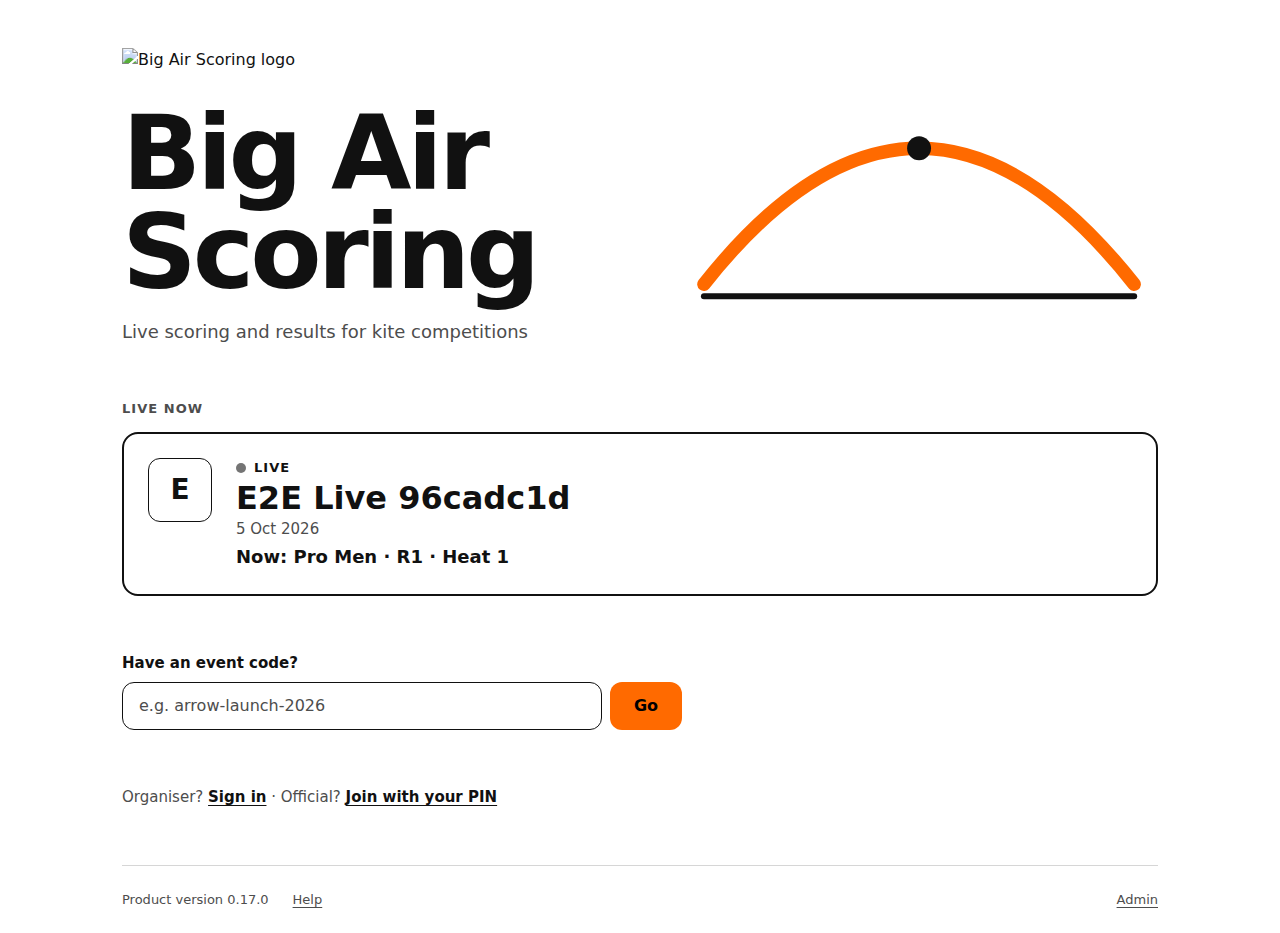
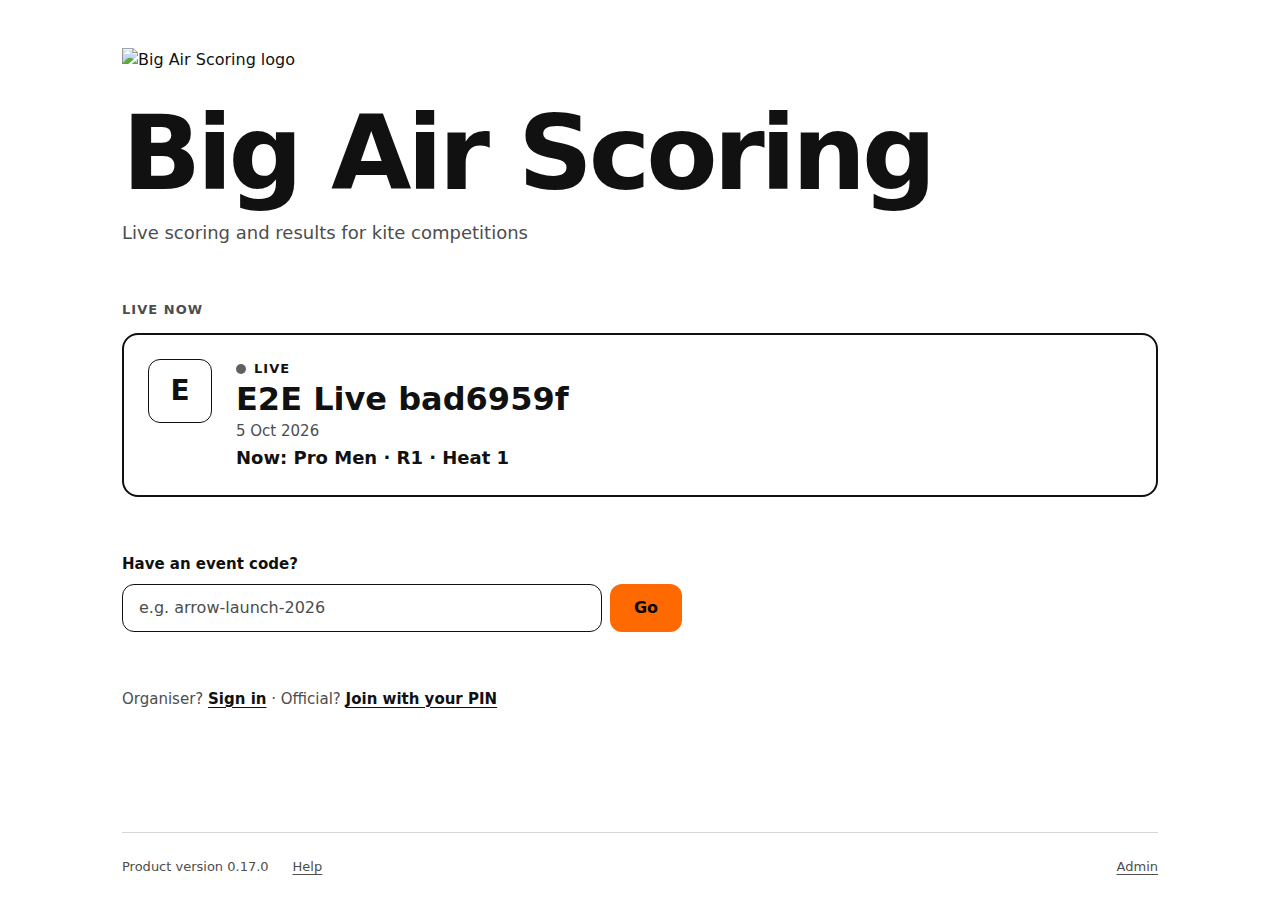
fix(home): remove the jump arc (owner's call); tests, manual and pictures follow
Claude-Session: https://claude.ai/code/session_01V3qx68Fo15qVSkwPdUGLnD

diff --git a/src/app/home.css b/src/app/home.css
@@ -1,5 +1,4 @@
-/* The front door (Polish 4). Its own small set of tokens, scoped to .home: near-black #111111, one accent (electric orange #FF6A00) used for the jump arc and the primary
-   action only, 1 px frames, 16 px cards, no shadows, no gradients. Dark and light follow the device. Text pairs are at least 7:1 (the beach standard):
+/* The front door (Polish 4). Its own small set of tokens, scoped to .home: near-black #111111, one accent (electric orange #FF6A00) used for the primary action only, 1 px frames, 16 px cards, no shadows, no gradients. Dark and light follow the device. Text pairs are at least 7:1 (the beach standard):
    ink on bg 17:1 / 17:1, muted on bg 8.4:1 / 10:1, black on the accent 7.4:1. The only movement on the page is the live dot (see .home-dot). */
 .home {
   --h-bg: #ffffff;
@@ -46,17 +45,11 @@
   }
 }
 
-/* hero: the wordmark large, the tagline in one line, the jump arc beside or under it */
+/* hero: the wordmark large, the tagline in one line */
 .home-hero {
   display: grid;
   gap: 16px;
   align-items: center;
-}
-@media (min-width: 880px) {
-  .home-hero {
-    grid-template-columns: minmax(0, 1.1fr) minmax(0, 1fr);
-    gap: 32px;
-  }
 }
 .home-logo {
   height: 48px;
@@ -77,16 +70,6 @@
   font-size: clamp(15px, 4vw, 18px);
   font-weight: 500;
   color: var(--h-muted);
-}
-.home-arc {
-  width: 100%;
-  height: auto;
-  max-height: 260px;
-  display: block;
-  color: var(--h-ink);
-}
-.home-arc .arc {
-  stroke: var(--h-accent);
 }
 
 /* section labels: 13 px uppercase */

diff --git a/src/app/page.tsx b/src/app/page.tsx
@@ -1,7 +1,6 @@
 import Link from "next/link";
 import { Suspense } from "react";
 import { HomeEventCode } from "@/components/home/home-event-code";
-import { JumpArc } from "@/components/home/arc";
 import { EventsView } from "@/components/home/events-view";
 import type { LandingEvent } from "@/components/landing-event-card";
 import "./home.css";
@@ -58,7 +57,7 @@ async function Events() {
   return <EventsView groups={groups} nowLines={nows} failed={Boolean(error)} />;
 }
 
-/** For riders and spectators. The hero (wordmark, tagline, the jump arc) does not wait for the events: the list streams in under it. */
+/** For riders and spectators. The hero (wordmark, tagline) does not wait for the events: the list streams in under it. */
 export default async function Home() {
   const settings = await getPlatformSettings();
   const hasLegal = Boolean(settings.legalTexts.terms || settings.legalTexts.privacy);
@@ -74,7 +73,6 @@ export default async function Home() {
             <h1 className="home-wordmark">{settings.productName}</h1>
             <p className="home-tagline">{settings.tagline}</p>
           </div>
-          <JumpArc />
         </header>
 
         <Suspense fallback={<div className="home-skeleton" aria-hidden />}>

diff --git a/e2e/home-landing.spec.ts b/e2e/home-landing.spec.ts
@@ -71,7 +71,6 @@ for (const profile of PROFILES) {
       test.setTimeout(120_000);
       await page.goto("/");
       await expect(page.getByRole("heading", { level: 1 })).toBeVisible();
-      await expect(page.locator("svg.home-arc")).toBeVisible();
       // the live card is first, and the larger one
       const first = page.getByTestId("landing-event").first();
       await expect(first).toHaveAttribute("data-status", "live");
@@ -136,7 +135,7 @@ for (const profile of PROFILES) {
           const ratio = await contrastOf(page, sel);
           expect(ratio, `${sel} on ${scheme}`).toBeGreaterThanOrEqual(7);
         }
-        // the accent appears in two places only: the arc and the primary action
+        // the accent appears in one place only: the primary action
         const accent = await page.evaluate(() => {
           const orange = "rgb(255, 106, 0)";
           const hits: string[] = [];
@@ -146,7 +145,7 @@ for (const profile of PROFILES) {
           }
           return [...new Set(hits)].sort();
         });
-        expect(accent).toEqual(["arc", "home-go"]);
+        expect(accent).toEqual(["home-go"]);
       });
     }
   });

diff --git a/docs/RELEASES.md b/docs/RELEASES.md
@@ -21,7 +21,7 @@ PR: #39
 - **Hiding built-in presets.** A hidden built-in is gone from your organisation's Load… menus only; **Show hidden (‹n›)** at the bottom of the menu brings it back. The owner's DEFAULT built-in cannot be hidden.
 - **Built-in presets without JSON (owner).** Admin → Master presets lists scoring models and formats with **Add a preset**, **Edit** (the organisers' own Simple / More settings form), **Rename**, **Retire** / **Restore**, **Set as DEFAULT** and **Delete** (refused while any division uses it). **Save as built-in** appears on a division's settings while you are opened as an organisation. JSON import and export stay under Advanced.
 - **The Load… menu stays on screen.** Every menu of that kind on the organiser and admin screens opens upwards when there is no room below and never runs off the edge.
-- **A new home page.** The product name large, a jump arc, the live event first as a larger card with a gently pulsing dot, then Coming up and Results, the event code field and the quiet links; light or dark as the phone says. No sign-up, no new addresses, nothing else on the site changed.
+- **A new home page.** The product name large, the live event first as a larger card with a gently pulsing dot, then Coming up and Results, the event code field and the quiet links; light or dark as the phone says. No sign-up, no new addresses, nothing else on the site changed.
 - Under the hood: two new tables (which built-ins an organisation hid, which built-in is the DEFAULT), a "retired" mark on presets and a few database functions; nothing existing was changed.
 
 ### What to test
@@ -31,7 +31,7 @@ PR: #39
 - [ ] In **Load…** → **⋯** on a built-in preset → **Hide**: it is gone from the menu and **Show hidden (1)** appears; press it, then **Show** on the entry: it is back. The preset marked DEFAULT has no Hide button.
 - [ ] Scroll the Divisions page until the **Load…** button is near the bottom of the screen and open it: the whole menu is on screen (it opens upwards).
 - [ ] As platform owner, Admin → **Master presets** → **Add a preset**: **Load…** a built-in, type a name, **Save**. Then **Edit** it, **Rename** it, **Retire** it (it vanishes from an organiser's Load… menu), **Restore** it, and **Delete** it. A division that loaded it earlier is unchanged.
-- [ ] Open the home page on a phone and on a laptop, light and dark: the arc, one orange accent, the live or next event as a clear card, the **Have an event code?** field and the quiet links; dark mode follows the phone.
+- [ ] Open the home page on a phone and on a laptop, light and dark: one orange accent (the Go button), the live or next event as a clear card, the **Have an event code?** field and the quiet links; dark mode follows the phone.
 
 ### Known issues
 - “Update preset from this division” is only in the Load… menu (it needs a division); the Presets card offers Rename, Delete, Hide and Show.

diff --git a/docs/manual/changelog.md b/docs/manual/changelog.md
@@ -12,7 +12,7 @@ Release entry: [0.17.0](/admin/releases#release-0-17-0) (platform owner only)
 - **Presets you can manage.** In the **Load…** menu and on a new **Presets** card of Organisation settings: **Rename**, **Delete** (refused while a live division uses it, naming the division), **Update preset from this division** (one click, reason optional), and **Hide** / **Show hidden** for built-in presets (the DEFAULT cannot be hidden). A division that loaded a preset is never changed by what you do to the preset afterwards.
 - **Master presets (owner):** scoring and format built-ins are a list with **Add**, **Edit** (the organisers' own form, no JSON), **Rename**, **Retire** / **Restore**, **Set as DEFAULT**, **Delete** (refused while a division uses it) and **Save as built-in** from a division's settings. JSON import/export is under Advanced.
 - **The Load… menu (and every menu of its kind) opens inside the screen**, upwards when there is no room below.
-- **A new home page:** the wordmark large, a jump arc, live event first and larger, Coming up, Results, the event code field, light and dark with the phone. Nothing else on the site changed.
+- **A new home page:** the wordmark large, live event first and larger, Coming up, Results, the event code field, light and dark with the phone. Nothing else on the site changed.
 
 **Manual pages updated:** [Divisions](screens/organiser-divisions.md#div-presets), [Organiser access](screens/organiser-access.md#oa-presets), [Admin: master presets](screens/admin-presets.md#ap-manage), [Public: the home page](screens/public-home.md), [Glossary](glossary.md), [Errors and refusals](errors.md).
 

diff --git a/docs/manual/screens/public-home.md b/docs/manual/screens/public-home.md
@@ -6,7 +6,7 @@ Last checked: 4 Oct 2026 · Product version 0.17.0
 
 ## What it is for {#ph-purpose}
 
-The front door. At the top: the product name large, the tagline on one line and the **jump arc** (a thick arc drawn in the brand's one accent colour, electric orange). Under it, only published, public events: **Live now** first (the first live event is a larger card with a gently pulsing dot and “Now: Pro Men · R1 · Heat 3”), then **Coming up**, then **Results** (a quiet “Results” tag on each finished event). Every card is one tap target that opens the event page. Simulation and archived events never appear. The page follows the phone's light or dark setting.
+The front door. At the top: the product name large, the tagline on one line; the only accent colour on the page (electric orange) is the **Go** button. Under it, only published, public events: **Live now** first (the first live event is a larger card with a gently pulsing dot and “Now: Pro Men · R1 · Heat 3”), then **Coming up**, then **Results** (a quiet “Results” tag on each finished event). Every card is one tap target that opens the event page. Simulation and archived events never appear. The page follows the phone's light or dark setting.
 
 ![Home page: a live event, light, laptop](../img/public-home-live-light-1280.png)
 *public-home-live-light-1280.png — a live event first and larger, then the event code field.*
